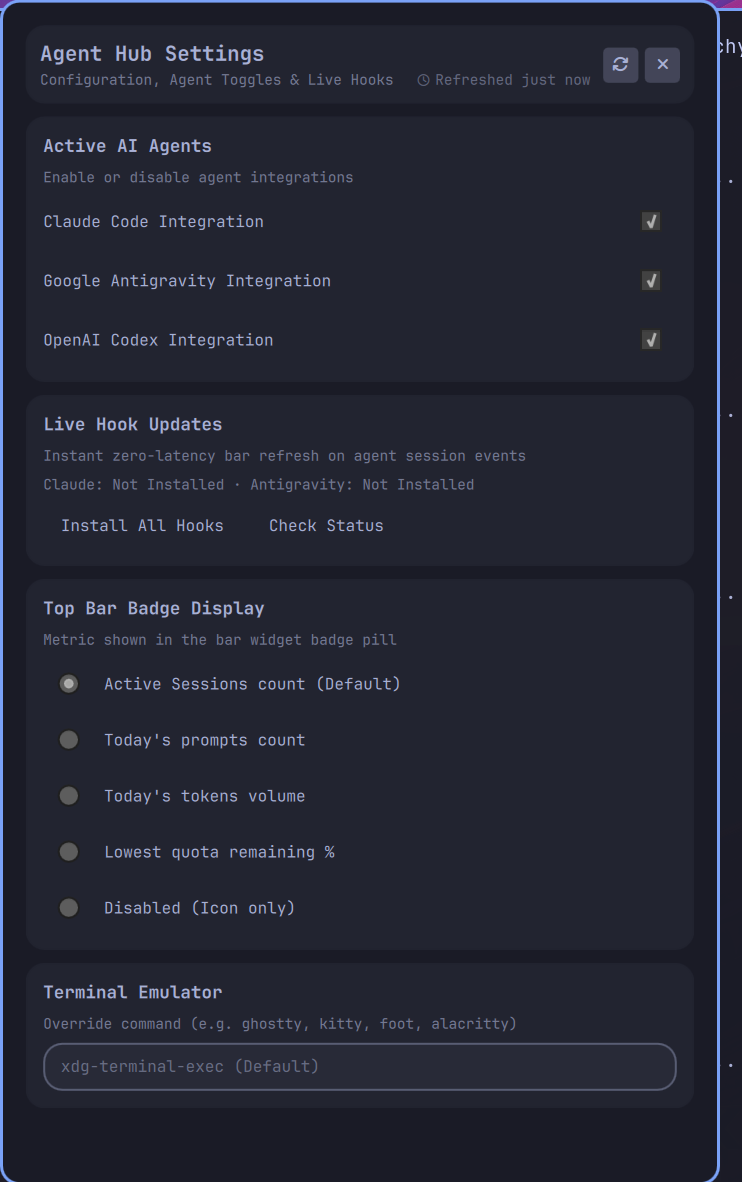
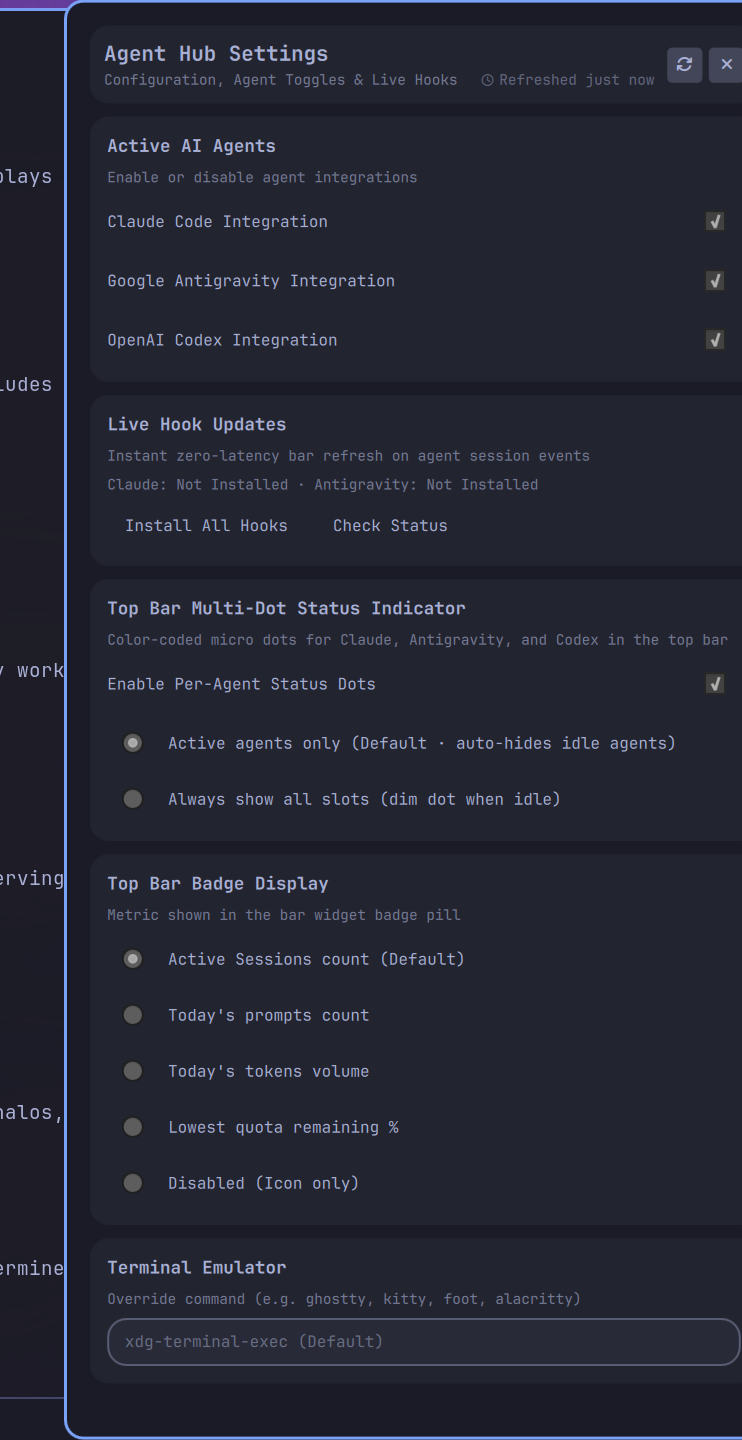
feat(bar): add per-agent multi-dot status indicator with neon glow and tab jump

diff --git a/Widget.qml b/Widget.qml
@@ -286,6 +286,32 @@ BarWidget {
     usageMain.refreshAll(true)
   }
 
+  function setting(name, fallback) {
+    var value = root.settings ? root.settings[name] : undefined
+    return value === undefined || value === null ? fallback : value
+  }
+
+  function getAgentState(agentId) {
+    if (provider && provider.agentStates && provider.agentStates[agentId]) {
+      return provider.agentStates[agentId]
+    }
+    var provData = (agentId === "claude" ? (provider ? provider.claudeData : null)
+                  : (agentId === "antigravity" ? (provider ? provider.antigravityData : null)
+                  : (provider ? provider.codexData : null)))
+    var hasAct = Boolean(provData && provData.hasActiveSession)
+    var isWork = Boolean(provData && provData.activeStatus === "Working")
+    var cnt = (provider && provider.activeAgentCounts) ? (provider.activeAgentCounts[agentId] || 0) : (hasAct ? 1 : 0)
+    return {
+      active: hasAct,
+      working: isWork,
+      waiting: hasAct && !isWork,
+      status: provData ? (provData.activeStatus || "Idle") : "Idle",
+      count: cnt,
+      color: agentId === "claude" ? "#D97757" : (agentId === "antigravity" ? "#38BDF8" : "#10A37F"),
+      name: agentId === "claude" ? "Claude Code" : (agentId === "antigravity" ? "Google Antigravity" : "OpenAI Codex")
+    }
+  }
+
   function draftValue(name, fallback) {
     var value = draftSettings ? draftSettings[name] : undefined
     return value === undefined || value === null ? fallback : value
@@ -407,8 +433,19 @@ BarWidget {
       else if (ageSec < 3600) refText = " • Refreshed " + Math.floor(ageSec / 60) + "m ago"
       else refText = " • Refreshed " + Math.floor(ageSec / 3600) + "h ago"
     }
+
+    var agentLines = []
+    var cSt = root.getAgentState("claude")
+    var aSt = root.getAgentState("antigravity")
+    var xSt = root.getAgentState("codex")
+    if (cSt.active) agentLines.push("Claude: " + cSt.status + " (" + cSt.count + ")")
+    if (aSt.active) agentLines.push("Antigravity: " + aSt.status + " (" + aSt.count + ")")
+    if (xSt.active) agentLines.push("Codex: " + xSt.status + " (" + xSt.count + ")")
+    var agentSummary = agentLines.length > 0 ? ("\n" + agentLines.join(" • ")) : ""
+
     return "Agent Hub" + status + "\n" +
-           (provider.todayPrompts || 0) + " prompts today • " + tokensFmt + " tokens" + refText + "\n" +
+           (provider.todayPrompts || 0) + " prompts today • " + tokensFmt + " tokens" + refText +
+           agentSummary + "\n" +
            "Claude Code, Google Antigravity & OpenAI Codex"
   }
 
@@ -430,6 +467,7 @@ BarWidget {
     function settings(): string { root.openSettings(); return "ok" }
     function openSettings(): string { root.openSettings(); return "ok" }
     function setBadgeMode(mode: string): string { root.updateSetting("badgeMode", mode); return "ok" }
+    function setMultiDot(enabled: bool): string { root.updateSetting("enableMultiDot", enabled); return "ok" }
     function setTab(tabName: string): string {
       if (tabName === "overview" || tabName === "claude" || tabName === "antigravity" || tabName === "codex") {
         root.showUsage()
@@ -446,11 +484,32 @@ BarWidget {
     readonly property bool tooltipHovered: mouseArea.containsMouse
     readonly property string badgeTextValue: root.getBadgeText()
     readonly property bool hasBadge: badgeTextValue.length > 0
+    readonly property bool multiDotEnabled: root.setting("enableMultiDot", true)
+    readonly property string multiDotMode: root.setting("multiDotMode", "active") // "active" | "all"
 
-    width: hasBadge ? (14 + badgeText.implicitWidth + 10) : root.barSize
+    readonly property var agentList: [
+      { id: "claude", name: "Claude Code", color: "#D97757", enabled: root.setting("enableClaude", true) },
+      { id: "antigravity", name: "Google Antigravity", color: "#38BDF8", enabled: root.setting("enableAntigravity", true) },
+      { id: "codex", name: "OpenAI Codex", color: "#10A37F", enabled: root.setting("enableCodex", true) }
+    ]
+
+    readonly property bool hasDots: {
+      if (!multiDotEnabled) return false
+      for (var i = 0; i < agentList.length; i++) {
+        var ag = agentList[i]
+        if (!ag.enabled) continue
+        if (multiDotMode === "all") return true
+        var st = root.getAgentState(ag.id)
+        if (st && st.active) return true
+      }
+      return false
+    }
+
+    width: Math.max(root.barSize, chipLayout.implicitWidth + 10)
     height: root.barSize
 
     RowLayout {
+      id: chipLayout
       anchors.centerIn: parent
       spacing: 4
 
@@ -479,7 +538,7 @@ BarWidget {
           colorizationColor: root.foreground
         }
 
-        // Active pulse glow
+        // Active pulse glow (legacy fallback when multi-dot is disabled)
         Rectangle {
           width: 4
           height: 4
@@ -488,13 +547,97 @@ BarWidget {
           anchors.bottom: parent.bottom
           anchors.margins: -1
           color: root.isWorking ? "#10B981" : (root.isWaiting ? "#38BDF8" : "transparent")
-          visible: root.hasActiveSession
+          visible: !chip.multiDotEnabled && root.hasActiveSession
 
           SequentialAnimation on opacity {
-            running: root.isWorking
+            running: !chip.multiDotEnabled && root.isWorking
             loops: Animation.Infinite
             NumberAnimation { from: 0.3; to: 1.0; duration: 600; easing.type: Easing.InOutQuad }
             NumberAnimation { from: 1.0; to: 0.3; duration: 600; easing.type: Easing.InOutQuad }
+          }
+        }
+      }
+
+      // Per-Agent Multi-Dot Indicator Cluster
+      RowLayout {
+        id: multiDotRow
+        visible: chip.multiDotEnabled && chip.hasDots
+        spacing: 2
+        Layout.alignment: Qt.AlignVCenter
+
+        Repeater {
+          model: chip.agentList
+          delegate: Item {
+            id: dotDelegate
+            required property var modelData
+            readonly property var st: root.getAgentState(modelData.id)
+            readonly property bool dotVisible: modelData.enabled && (chip.multiDotMode === "all" || (st && st.active))
+
+            visible: dotVisible
+            implicitWidth: dotVisible ? 8 : 0
+            implicitHeight: 14
+            width: implicitWidth
+            height: implicitHeight
+            Layout.preferredWidth: implicitWidth
+            Layout.preferredHeight: implicitHeight
+            Layout.alignment: Qt.AlignVCenter
+
+            // Pulsing halo aura behind actively working agent dot
+            Rectangle {
+              anchors.centerIn: parent
+              width: 8
+              height: 8
+              radius: 4
+              color: modelData.color
+              opacity: (st && st.working) ? 0.35 : 0.0
+              visible: Boolean(st && st.working)
+
+              SequentialAnimation on opacity {
+                running: Boolean(st && st.working)
+                loops: Animation.Infinite
+                NumberAnimation { from: 0.15; to: 0.45; duration: 600; easing.type: Easing.InOutQuad }
+                NumberAnimation { from: 0.45; to: 0.15; duration: 600; easing.type: Easing.InOutQuad }
+              }
+            }
+
+            // Core status dot
+            Rectangle {
+              id: dotCore
+              anchors.centerIn: parent
+              width: 5
+              height: 5
+              radius: 2.5
+              color: (st && st.active) ? modelData.color : root.track
+              opacity: (st && st.active) ? 1.0 : 0.35
+
+              SequentialAnimation on opacity {
+                running: Boolean(st && st.working)
+                loops: Animation.Infinite
+                NumberAnimation { from: 0.4; to: 1.0; duration: 600; easing.type: Easing.InOutQuad }
+                NumberAnimation { from: 1.0; to: 0.4; duration: 600; easing.type: Easing.InOutQuad }
+              }
+            }
+
+            MouseArea {
+              anchors.fill: parent
+              hoverEnabled: true
+              cursorShape: Qt.PointingHandCursor
+              onEntered: {
+                if (root.bar) {
+                  var tip = modelData.name + ": " + (st ? (st.working ? "Working" : (st.waiting ? "Waiting (" + st.count + " active)" : "Idle")) : "Idle")
+                  root.bar.showTooltip(dotDelegate, tip)
+                }
+              }
+              onExited: {
+                if (root.bar) root.bar.hideTooltip(dotDelegate)
+              }
+              onClicked: function(mouse) {
+                mouse.accepted = true
+                root.showUsage()
+                root.currentTab = modelData.id
+                root.popupOpen = true
+              }
+            }
           }
         }
       }
@@ -2202,6 +2345,69 @@ BarWidget {
             fontFamily: root.fontFamily
             fontSize: 10
             onClicked: if (root.provider) root.provider.checkHooks()
+          }
+        }
+      }
+    }
+
+    // Top Bar Multi-Dot Status Indicator Setting
+    SectionCard {
+      title: "Top Bar Multi-Dot Status Indicator"
+      subtitle: "Color-coded micro dots for Claude, Antigravity, and Codex in the top bar"
+
+      ColumnLayout {
+        Layout.fillWidth: true
+        spacing: 6
+
+        RowLayout {
+          Layout.fillWidth: true
+          Text {
+            textFormat: Text.PlainText
+            text: "Enable Per-Agent Status Dots"
+            color: root.foreground
+            font.family: root.fontFamily
+            font.pixelSize: 10
+            Layout.fillWidth: true
+          }
+          CheckBox {
+            checked: root.draftValue("enableMultiDot", true)
+            onToggled: root.setDraftValue("enableMultiDot", checked)
+          }
+        }
+
+        ColumnLayout {
+          Layout.fillWidth: true
+          spacing: 4
+          visible: root.draftValue("enableMultiDot", true)
+
+          RowLayout {
+            spacing: 6
+            RadioButton {
+              checked: root.draftValue("multiDotMode", "active") === "active"
+              onToggled: root.setDraftValue("multiDotMode", "active")
+            }
+            Text {
+              textFormat: Text.PlainText
+              text: "Active agents only (Default · auto-hides idle agents)"
+              color: root.foreground
+              font.family: root.fontFamily
+              font.pixelSize: 10
+            }
+          }
+
+          RowLayout {
+            spacing: 6
+            RadioButton {
+              checked: root.draftValue("multiDotMode", "active") === "all"
+              onToggled: root.setDraftValue("multiDotMode", "all")
+            }
+            Text {
+              textFormat: Text.PlainText
+              text: "Always show all slots (dim dot when idle)"
+              color: root.foreground
+              font.family: root.fontFamily
+              font.pixelSize: 10
+            }
           }
         }
       }

diff --git a/providers/HubProvider.qml b/providers/HubProvider.qml
@@ -38,6 +38,7 @@ Item {
     property var toolUsage: ({})
     property var quotaGroups: []
     property var activeAgentCounts: ({ "claude": 0, "antigravity": 0, "codex": 0 })
+    property var agentStates: ({})
 
     // Dedicated Sub-Provider Data
     property var claudeData: ({})
@@ -200,6 +201,7 @@ Item {
             root.toolUsage = data.toolUsage || ({})
             root.quotaGroups = data.quotaGroups || []
             root.activeAgentCounts = data.activeAgentCounts || ({ "claude": 0, "antigravity": 0, "codex": 0 })
+            root.agentStates = data.agentStates || ({})
 
             var prov = data.providers || ({})
             root.claudeData = prov.claude || ({})

diff --git a/scripts/hub_scanner.py b/scripts/hub_scanner.py
@@ -272,6 +272,37 @@ def scan_hub(
     )
     active_sessions = c_active_sessions + a_active_sessions + x_active_sessions
 
+    # Per-agent activity states for multi-dot status indicator
+    agent_states = {
+        "claude": {
+            "active": claude_active,
+            "working": claude_working,
+            "waiting": claude_active and not claude_working,
+            "status": claude_data.get("activeStatus", "Idle") if claude_active else "Idle",
+            "count": len(c_active_sessions),
+            "color": "#D97757",
+            "name": "Claude Code",
+        },
+        "antigravity": {
+            "active": agy_active,
+            "working": agy_working,
+            "waiting": agy_active and not agy_working,
+            "status": antigravity_data.get("activeStatus", "Idle") if agy_active else "Idle",
+            "count": len(a_active_sessions),
+            "color": "#38BDF8",
+            "name": "Google Antigravity",
+        },
+        "codex": {
+            "active": codex_active,
+            "working": codex_working,
+            "waiting": codex_active and not codex_working,
+            "status": codex_data.get("activeStatus", "Idle") if codex_active else "Idle",
+            "count": len(x_active_sessions),
+            "color": "#10A37F",
+            "name": "OpenAI Codex",
+        },
+    }
+
     # Annotate and merge recent sessions
     c_recent_sessions = annotate_sessions(
         claude_data.get("recentSessions", []),
@@ -417,6 +448,7 @@ def scan_hub(
             "antigravity": len(a_active_sessions),
             "codex": len(x_active_sessions)
         },
+        "agentStates": agent_states,
         "totalPrompts": total_prompts,
         "totalSteps": total_steps,
         "totalSessions": total_sessions,

diff --git a/tests/test_hub_scanner.py b/tests/test_hub_scanner.py
@@ -70,6 +70,13 @@ class TestHubScanner(unittest.TestCase):
         self.assertIn("antigravity", res["providers"])
         self.assertIn("codex", res["providers"])
         self.assertIn("codexData", res)
+        self.assertIn("agentStates", res)
+        self.assertIn("claude", res["agentStates"])
+        self.assertIn("antigravity", res["agentStates"])
+        self.assertIn("codex", res["agentStates"])
+        self.assertIn("color", res["agentStates"]["claude"])
+        self.assertIn("color", res["agentStates"]["antigravity"])
+        self.assertIn("color", res["agentStates"]["codex"])
 
     def test_focus_script_help(self):
         import subprocess

diff --git a/README.md b/README.md
@@ -24,6 +24,12 @@
   - 🟢 **Green (Pulsing)**: Any agent is actively executing or thinking (`Working`).
   - 🔵 **Blue**: Any session is open and waiting for user input (`Waiting`).
   - ⚪ **Transparent**: All agents are idle.
+- **Per-Agent Multi-Dot Status Cluster**: Color-coded micro dots next to the bar icon providing instant visual feedback on which specific agents are active or running:
+  - 🟠 **Orange (`#D97757`)**: Claude Code
+  - 🔵 **Cyan (`#38BDF8`)**: Google Antigravity
+  - 🟢 **Emerald (`#10A37F`)**: OpenAI Codex
+  - **Pulsing Neon Glow**: Actively working/thinking agents pulse with animated halo glows.
+  - **Direct Tab Navigation**: Clicking any agent dot in the status bar opens the cockpit directly to that agent's dedicated deep-dive tab.
 - **Configurable Dynamic Badge Modes**:
   - `active` (Default): Total concurrent background sessions running across all agents (auto-hides when 0).
   - `prompts`: Total prompts executed today across all agents.
@@ -124,6 +130,8 @@ Settings can be adjusted directly in the widget's in-popup settings view (right-
 |---|---|---|---|
 | `refreshIntervalSec` | integer (10–1800) | `60` | Telemetry refresh rate in seconds (scales to 10s when active) |
 | `badgeMode` | enum | `"active"` | Bar badge mode (`active`, `prompts`, `tokens`, `quota`, `off`) |
+| `enableMultiDot` | boolean | `true` | Show per-agent color-coded status dots in the status bar |
+| `multiDotMode` | enum | `"active"` | Multi-dot display mode (`active` = active agents only, `all` = all slots) |
 | `enableClaude` | boolean | `true` | Enable Claude Code agent integration |
 | `enableAntigravity` | boolean | `true` | Enable Google Antigravity agent integration |
 | `enableCodex` | boolean | `true` | Enable OpenAI Codex agent integration |
